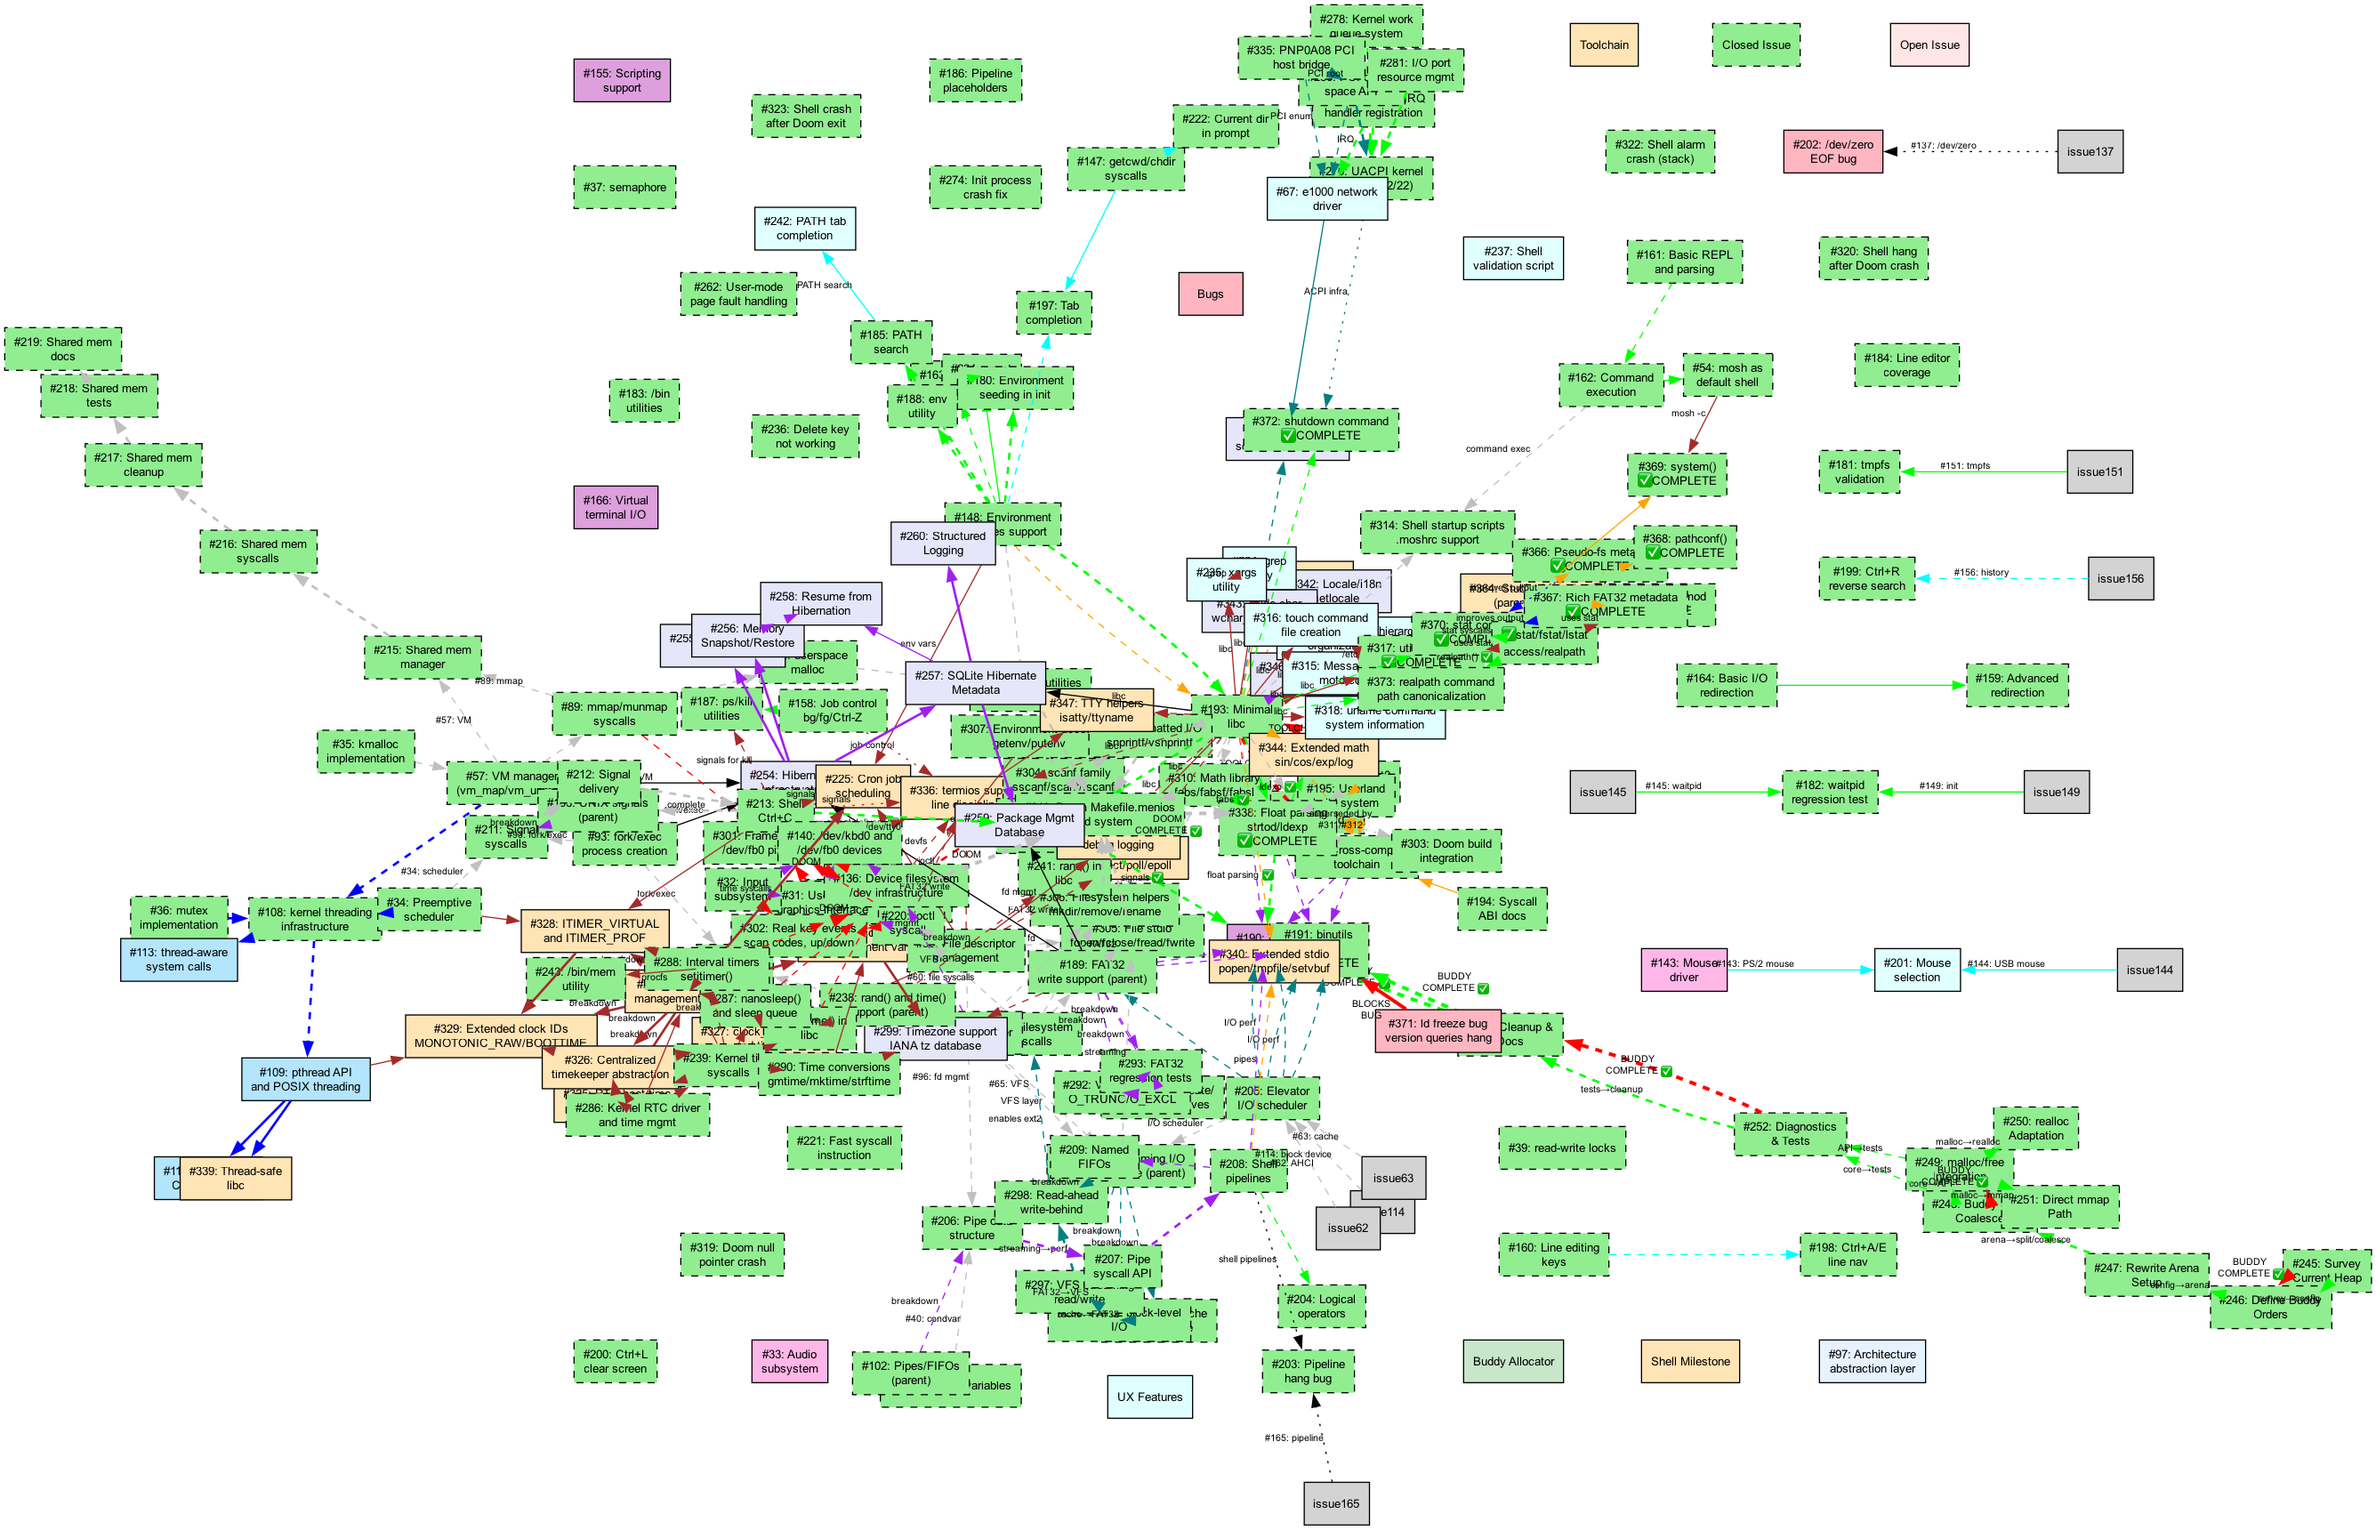
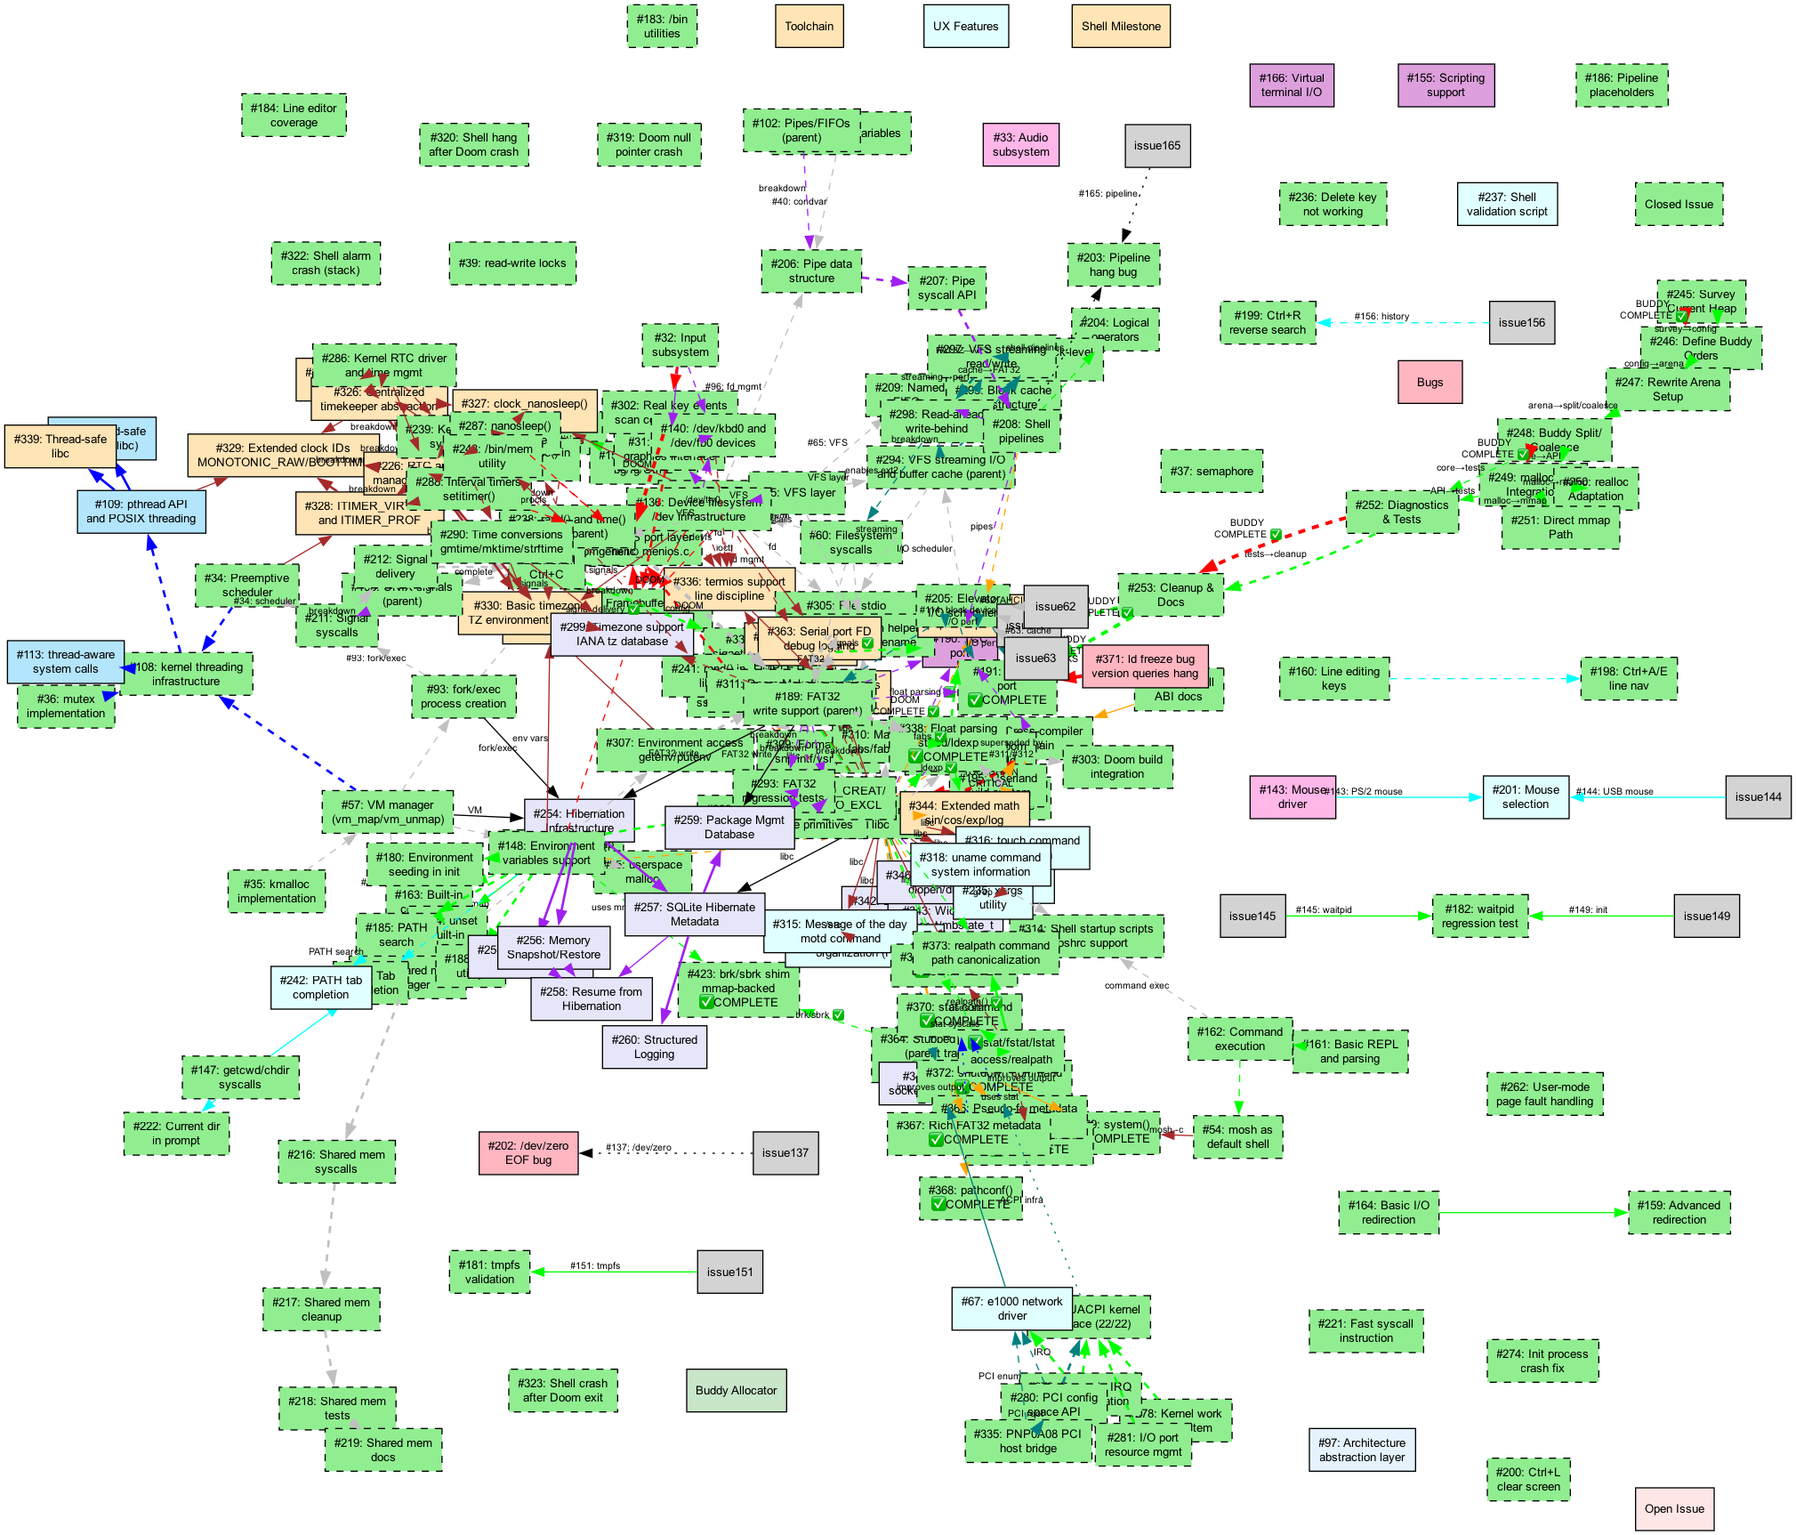
Updated documentation for completed issue #423 (brk/sbrk shim)
Architecture changes:
- Updated mem.md to describe userland brk/sbrk shim backed by mmap
- Updated per_process_vm.md to mark brk/sbrk as complete via #423
- Updated syscall_abi.md to clarify brk/sbrk are libc functions, not syscalls

Issue tracking:
- Marked #364 (stubbed functions) and #423 (brk/sbrk shim) as closed
- Updated stubbed functions status: 93% complete (13/14)
- Only gets() remains (deliberately not implementing - security vulnerability)

Dependency updates:
- Updated issues #55 and #56 to reflect brk/sbrk availability
- Removed incorrect references to issue #21 (PS/2 keyboard, not brk/sbrk)
- Updated dependency diagrams with corrected issue relationships

Diagrams:
- Refreshed libc and full dependency diagrams
- Regenerated PNG images to reflect current state

diff --git a/docs/architecture/mem.md b/docs/architecture/mem.md
@@ -45,7 +45,7 @@ Other points:
 * `proc_create_user()` still clones the kernel PML4 via `pmm_clone_kernel_address_space()`, giving each process the shared higher-half mappings while providing a unique CR3 for user pages.
 * Each process carries `vm_regions[]` metadata. The stack region is registered as grow-down; only the top page is mapped eagerly so the task can start executing, and further growth is handled lazily.
 * `elf64_load_image()` maps PT_LOAD segments and records them in both `user_segments` (for physical cleanup) and the owning region metadata so we know exactly which virtual ranges are populated.
-* There is not yet a heap region (`brk`/`mmap`), but the infrastructure for grow-up regions is ready—only the stack uses it today.
+* A userland heap shim (`brk`/`sbrk`) has been implemented via `src/libc/brk.c`. It maintains a locked arena backed by `mmap(MAP_ANONYMOUS)`, providing POSIX-compatible dynamic memory allocation without kernel syscalls. Native kernel-side heap regions remain planned for future work.
 * User-mode page faults are intercepted by `vm_region_handle_page_fault()`. Faults inside growable regions allocate zeroed pages on demand; illegal or permission-violating faults still fall back to the diagnostic handler.
 
 ## User Address Spaces (Planned Enhancements)
@@ -53,8 +53,8 @@ Other points:
 Work remaining after issue #28 (also expanded in `docs/architecture/per_process_vm.md`):
 
 * **Canonical Layout**: Define fixed bases for text, rodata, data/BSS, heap, stack, and mmappable regions so PIDs no longer influence addresses and we can reserve guard pages.
-* **Heap Region**: Introduce a grow-up region for `brk`/`mmap`, wire it into the lazy allocation path, and converge cleanup logic on the region metadata instead of the flat `user_segments` array.
-* **Address-Space Isolation**: Replace the “clone kernel CR3” strategy with a curated template that maps only the required shared kernel ranges plus user regions, then teach `proc_exit` to unmap via region descriptors.
+* **Native Kernel Heap Region**: Introduce a true kernel-managed grow-up heap region for `brk`/`sbrk` syscalls, wire it into the lazy allocation path, and converge cleanup logic on the region metadata instead of the flat `user_segments` array. (Currently, userland uses a libc shim backed by `mmap`.)
+* **Address-Space Isolation**: Replace the "clone kernel CR3" strategy with a curated template that maps only the required shared kernel ranges plus user regions, then teach `proc_exit` to unmap via region descriptors.
 * **Demand Paging**: Build on the region infrastructure to lazily populate PT_LOAD segments or file-backed mappings once the filesystem and VFS layers arrive.
 
 ## Open Questions / Future Work
@@ -67,4 +67,4 @@ Work remaining after issue #28 (also expanded in `docs/architecture/per_process_
 
 ---
 
-_Last updated: 2025-09-26_
+_Last updated: 2025-11-03_

diff --git a/docs/DEPENDENCY_DIAGRAMS.md b/docs/DEPENDENCY_DIAGRAMS.md
@@ -46,8 +46,8 @@ The meniOS project has grown to over 100+ tracked issues with complex interdepen
   - ⚠ pathconf() (partial - #368)
   - ✅ chmod/fchmod (#365); ✅ utime (#317)
   - ✅ pseudo-fs metadata (#366); ✅ rich FAT32 metadata (#367)
-  - ❌ isatty (#347), brk/sbrk (#21), system() (#369)
-  - ❌ timing APIs (#327)
+  - ✅ brk/sbrk (#423 - libc shim)
+  - ❌ gets() (deliberately not implemented - security vulnerability)
 - Thread safety: #339 (depends on pthread #109)
 - Extended features: stdio, math, regex, TTY helpers, multiplexing
 - Future work: sockets, locale, wide-char, dynamic loader
@@ -69,13 +69,13 @@ The meniOS project has grown to over 100+ tracked issues with complex interdepen
 - ✅ #338 (Float parsing) - CLOSED - TCC blockers resolved! 🎉
 - ✅ #371 (ld freeze bug) - **CLOSED** - as and ld working! 🎉
 - ✅ #373 (realpath command) - **CLOSED** - Quick win complete! 🎉
-- ⚠ #364 (Stubbed functions) - Partially complete (stat family working)
+- ✅ #364 (Stubbed functions) - CLOSED (93% complete: 13/14 functions, only gets() remains)
 - ✅ #370 (stat command) - **CLOSED** - File metadata tool now ships in `/bin/stat`
 - 🆕 #372 (shutdown command) - NEW - Clean ACPI power-off from userland (quick win)
 - ✅ #191 (binutils) - Build complete, **READY FOR TESTING** (unblocked)
 
-**Recently Closed (19 issues):**
-- #58, #137, #138, #145, #149, #151, #152, #153, #155, #167, #168, #226, #284, #285, #316, #337, #338, #371, #373
+**Recently Closed (21 issues):**
+- #58, #137, #138, #145, #149, #151, #152, #153, #155, #167, #168, #226, #284, #285, #316, #337, #338, #364, #371, #373, #423
 
 ---
 

diff --git a/docs/ISSUE_DEPENDENCY_ANALYSIS.md b/docs/ISSUE_DEPENDENCY_ANALYSIS.md
@@ -234,7 +234,7 @@ These issues form the backbone of the system and should be prioritized:
                     │
                     ├──→ #347 (isatty, ttyname) ──→ TTY helper functions
                     │
-                    ├──→ #21 (userspace heap) ──→ brk/sbrk implementation
+                    ├──→ ~~brk/sbrk~~ ✅ ──→ libc shim (#423)
                     │
                     ├──→ #369 (system()) ──→ shell command execution
                     │
@@ -254,9 +254,10 @@ These issues form the backbone of the system and should be prioritized:
 
 **Remaining Stubs**:
 - ❌ **isatty** (#347) - Check if fd is terminal
-- ❌ **brk/sbrk** (#21) - Dynamic memory allocation
+- ✅ **brk/sbrk** (#423) - Userland shim via mmap(MAP_ANONYMOUS)
 - ❌ **system()** (#369) - Execute shell commands
 - ❌ **Timing APIs** (#327) - nanosleep, alarm, clock_*, setitimer, getitimer
+- ❌ **gets()** - Deliberately not implemented (security vulnerability)
 
 **Sub-tasks**:
 - ~~**#366** - Add `.stat` to pseudo-filesystems (tmpfs, procfs, devfs, pipes)~~ ✅ COMPLETE
@@ -283,7 +284,7 @@ These issues form the backbone of the system and should be prioritized:
 - stat infrastructure: ✅ Complete
 - #189 (FAT32 write): ✅ Complete (needed for chmod/utime)
 - #18 (syscalls): Ongoing (needed for most stubs)
-- #21 (heap): Needed for brk/sbrk
+- ~~brk/sbrk~~: ✅ Complete - via libc shim (#423)
 - mosh with `-c` flag: Needed for system()
 
 **Priority**: **HIGH** - Many tools rely on stat() working on all filesystems, chmod/utime needed for build systems

diff --git a/docs/MILESTONES.md b/docs/MILESTONES.md
@@ -870,10 +870,16 @@ Active work:
   - **Documentation**: Created [docs/road/road_to_gui.md](road/road_to_gui.md) - complete roadmap with architecture, code examples, 6 milestones (8-10 months)
   - **Other**: #411 (source file headers with MIT License)
   - Total project issues now: **127** (was 106), GUI milestone: 0/20 (just launched!)
+- **2025-11-03**: Closed #423 (brk/sbrk compatibility shim) and #364 (stubbed functions tracker) ✅
+  - Implemented userland brk/sbrk via mmap(MAP_ANONYMOUS) in `src/libc/brk.c`
+  - Added test coverage in `test/test_brk_sbrk.c`
+  - Updated mmap under MENIOS_HOST_TEST for better host compatibility
+  - Stubbed functions tracker now 93% complete (13/14 functions working - only gets() remains)
+  - gets() deliberately not implemented (security vulnerability, removed from C11)
 
 ---
 
-**Last Updated**: 2025-10-30
+**Last Updated**: 2025-11-03
 **See Also**:
 - [Road to Shell](road/road_to_shell.md)
 - [Road to Buddy Allocator](road/road_to_buddy_allocator.md)

diff --git a/docs/road/road_to_gcc.md b/docs/road/road_to_gcc.md
@@ -108,7 +108,8 @@ GNU [binutils 2.45](https://www.gnu.org/software/binutils/) has also been staged
   - ✅ chmod/fchmod on FAT32 (#365) - **COMPLETE!** (read-only bit mirrors POSIX perms)
   - ✅ utime on FAT32 (#317) - **COMPLETE!** (POSIX timestamps persist on FAT32)
   - ✅ pseudo-fs metadata (#366) - **COMPLETE!** (devfs/procfs/pipes surface synthetic metadata)
-  - ❌ isatty (#347), brk/sbrk (#21), system() (#369), timing APIs (#327)
+  - ✅ brk/sbrk (#423) - **COMPLETE!** (userland shim via mmap)
+  - ❌ gets() - Deliberately not implemented (security vulnerability)
 - ✅ Pipes & FIFOs - **FULLY COMPLETE!** (#206 ✅, #207 ✅, #208 ✅, #209 ✅)
 - ✅ #189 (file writes) - **COMPLETE!** (#291, #292, #293 all done)
 - ✅ #294 (VFS streaming I/O) - **COMPLETE!** (#295, #296, #297, #298 all done)

diff --git a/docs/architecture/per_process_vm.md b/docs/architecture/per_process_vm.md
@@ -17,7 +17,8 @@ This document captures the current state of meniOS user address spaces and the p
    * Reserve guard pages between regions once the new layout is in place.
 
 2. **Heap Support**
-   * Carve out a grow-up region for the process heap (`brk`/`sbrk`) and hook it into the lazy page allocator.
+   * ✅ A userland `brk`/`sbrk` shim has been implemented in `src/libc/brk.c` (issue #423), providing POSIX-compatible heap allocation backed by `mmap(MAP_ANONYMOUS)`.
+   * Future: Carve out a native kernel-managed grow-up heap region and hook it into the lazy page allocator.
    * Replace the flat `user_segments` bookkeeping with region-aware structures so teardown can free lazily allocated heap pages.
 
 3. **Address Space Isolation**

diff --git a/docs/architecture/syscall_abi.md b/docs/architecture/syscall_abi.md
@@ -104,6 +104,11 @@ promise.  Below is a summary of the calls that ship in meniOS v0.1.0.
   **`SYS_SHMCTL` (77)** — System V shared memory primitives.  `SHM_REMAP` is
   rejected, and only `IPC_RMID`/`IPC_STAT` are implemented in `shmctl`.
 
+**Note on heap allocation**: POSIX `brk()`/`sbrk()` are provided by libc
+(`src/libc/brk.c`) as a compatibility shim backed by `mmap(MAP_ANONYMOUS)`.
+There are no `SYS_BRK` or `SYS_SBRK` syscalls; the shim maintains a locked
+arena entirely in userspace.
+
 ### Process management
 
 - **`SYS_FORK` (57)** — `pid_t fork(void);`
